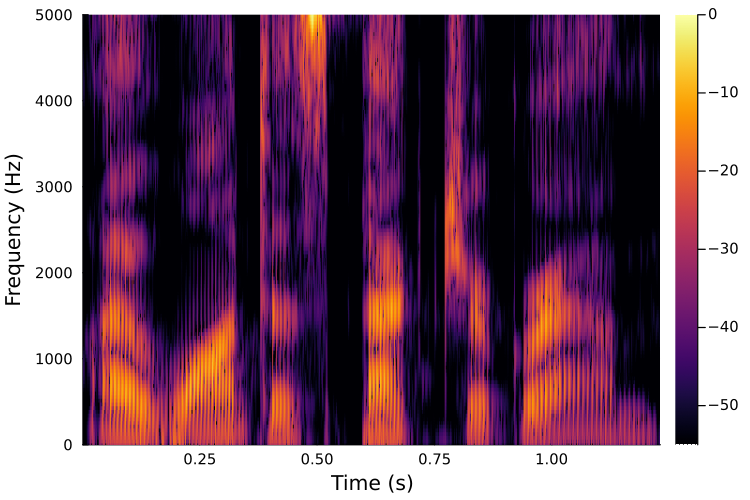
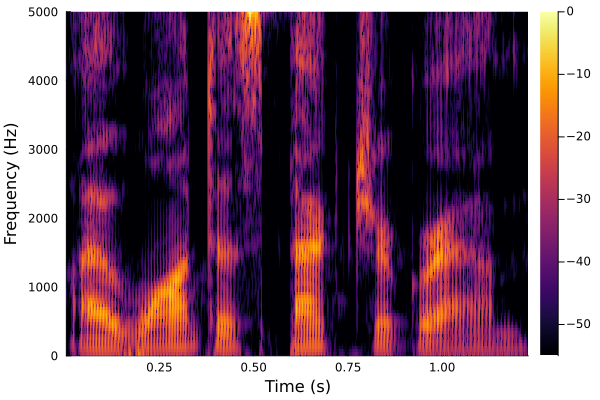
Update spectrogram in docs and readme

diff --git a/docs/src/phon_spectrogram.md b/docs/src/phon_spectrogram.md
@@ -12,7 +12,7 @@ using WAV
 using Plots
 s, fs = wavread("assets/iwantaspectrogram.wav")
 s = vec(s)
-phonspec(s, fs)
+phonspec(s, fs, xlab="Time (s)", ylab="Frequency (Hz)")
 ```
 
 A color scheme more similar to the Praat grayscale can be achieved using the `color` argument from `Plots.jl` and the `:binary` color scheme. These spectrograms are created using the `heatmap` function from `Plots.jl`, so [any color scheme available in the Plots package](https://docs.juliaplots.org/stable/generated/colorschemes/) can be used, though not all of them produce legible spectrograms.
@@ -23,10 +23,10 @@ using WAV # hide
 s, fs = wavread("assets/iwantaspectrogram.wav") # hide
 s = vec(s) # hide
 using Plots # hide
-phonspec(s, fs, color=:binary)
+phonspec(s, fs, xlab="Time (s)", ylab="Frequency (Hz)", color=:binary)
 ```
 
-A narrowband style spectrogram can be plotted using the `specstyle` argument:
+A narrowband style spectrogram can be plotted using the `winlen` argument:
 
 ```@example
 using Phonetics # hide
@@ -34,7 +34,7 @@ using WAV # hide
 s, fs = wavread("assets/iwantaspectrogram.wav") # hide
 s = vec(s) # hide
 using Plots # hide
-phonspec(s, fs, specstyle=:narrowband)
+phonspec(s, fs, xlab="Time (s)", ylab="Frequency (Hz)", winlen=0.03)
 ```
 
 And, the pre-emphasis can be disabled by passing in a value of 0 for the `pre_emph` argument. Pre-emphasis will boost the prevalence of the higher frequencies in comparison to the lower frequencies.
@@ -45,7 +45,7 @@ using WAV # hide
 using Plots # hide
 s, fs = wavread("assets/iwantaspectrogram.wav") # hide
 s = vec(s) # hide
-phonspec(s, fs, pre_emph=0)
+phonspec(s, fs, pre_emph=0, xlab="Time (s)", ylab="Frequency (Hz)")
 ```
 
 # Function documentation

diff --git a/README.md b/README.md
@@ -25,7 +25,7 @@ using WAV
 using Plots
 s, fs = wavread("iwantaspectrogram.wav")
 s = vec(s)
-phonspec(s, fs)
+phonspec(s, fs, xlab="Time (s)", ylab="Frequency (Hz)")
 ```
 
 ![A spectrogram of the phrase "I want a spectrogram"](imgs/iwantaspectrogram.png)
